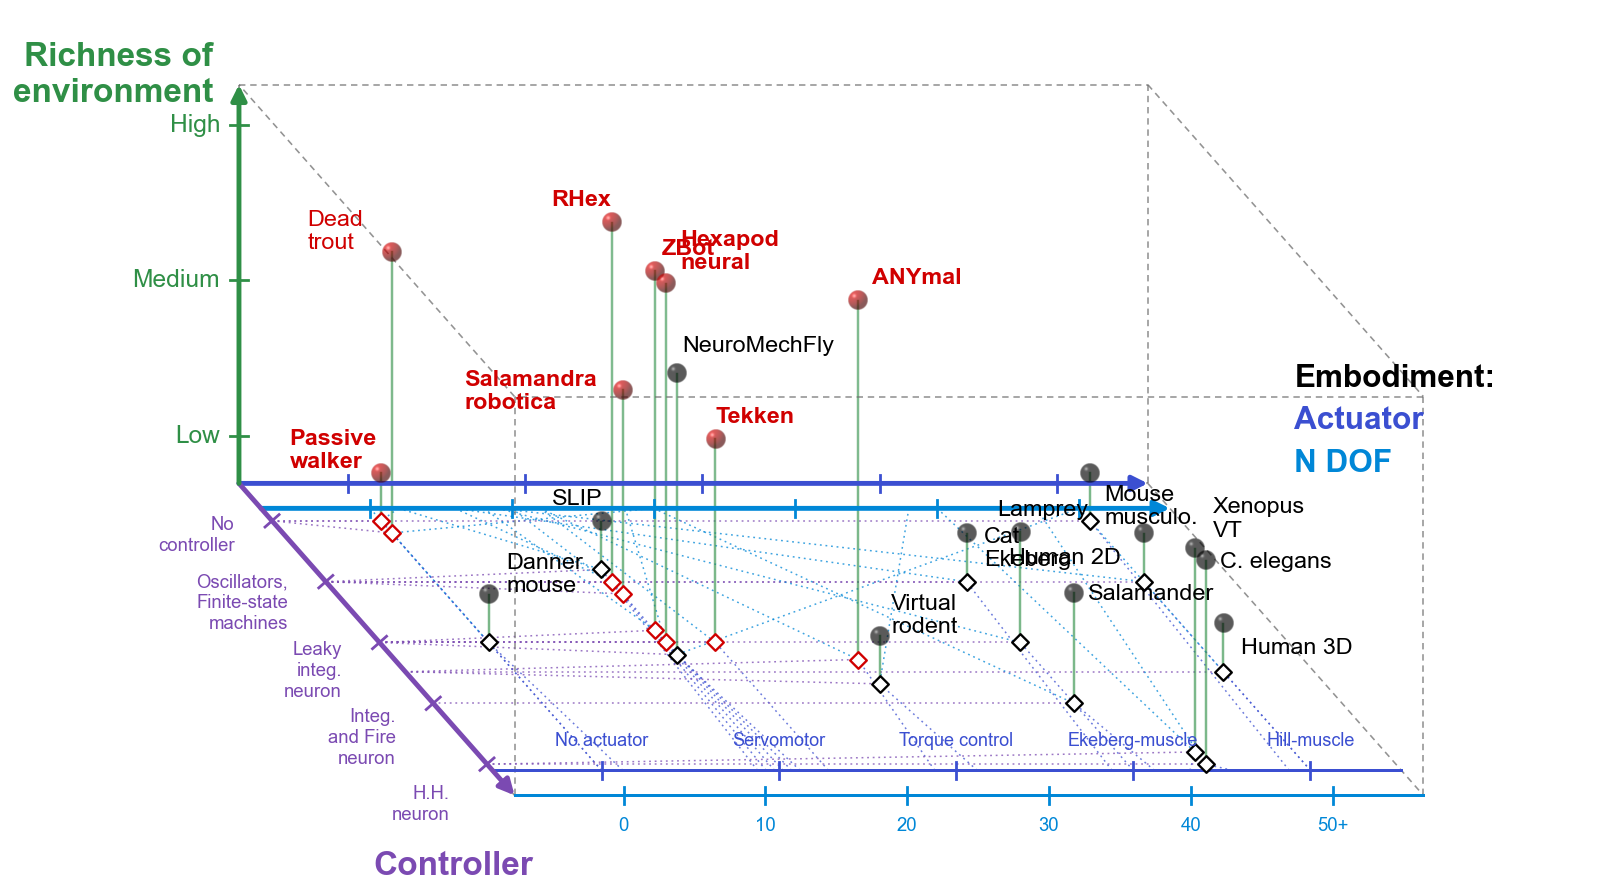
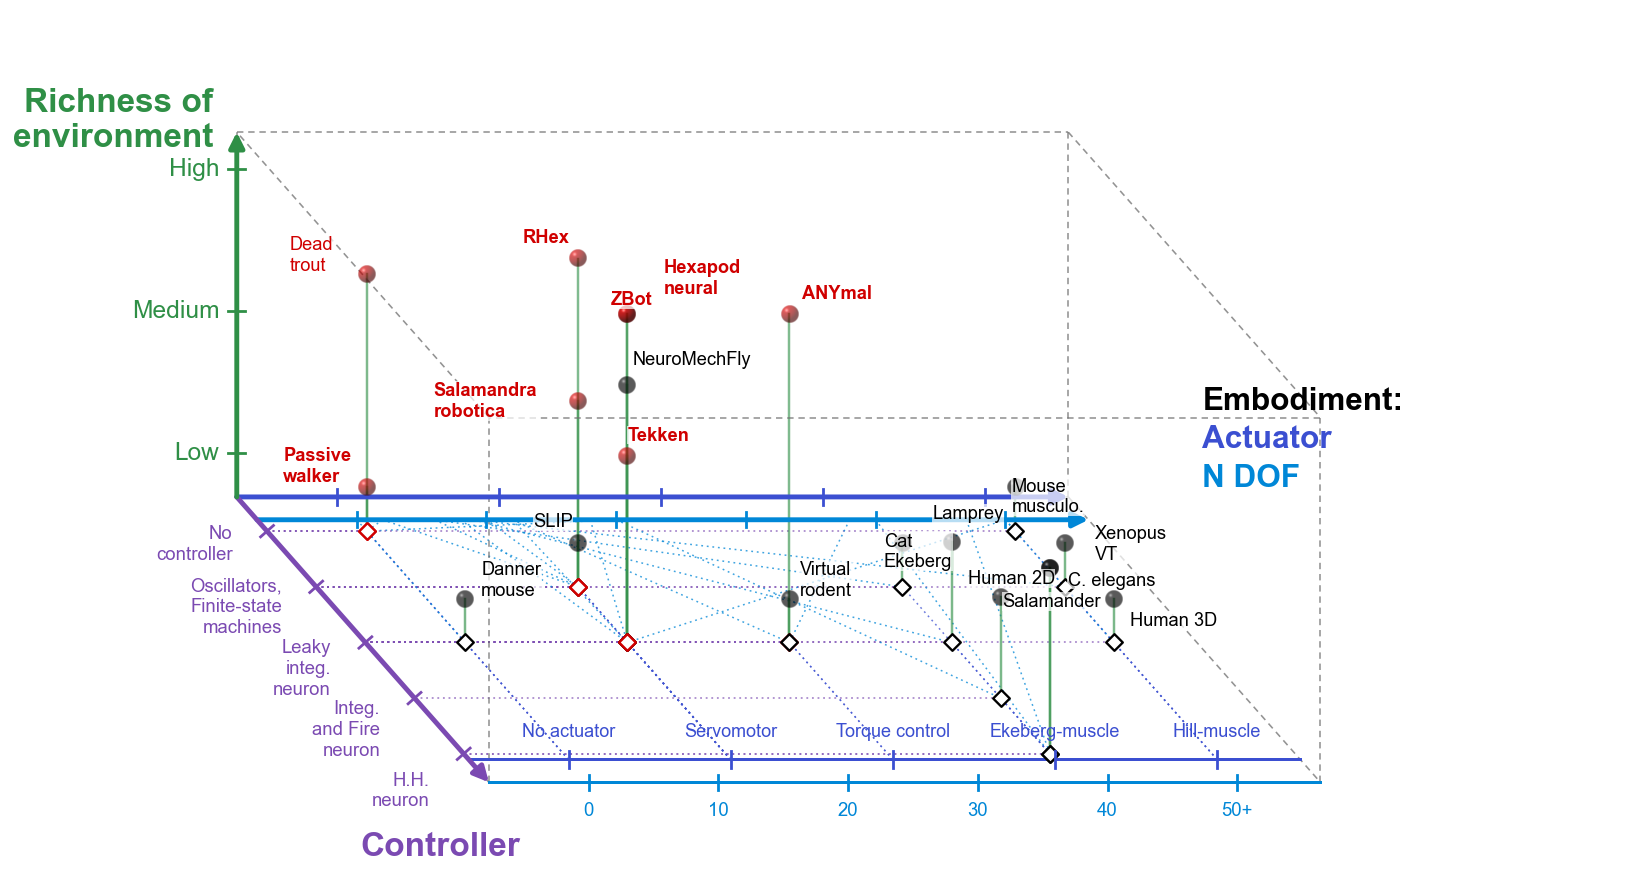
Updated script and xslx file

diff --git a/plot_figure_with_models.py b/plot_figure_with_models.py
@@ -80,8 +80,8 @@ AXIS_TICK_END   = 0.90
 
 FIGSIZE         = (12.2, 7.6)
 DPI             = 160
-X_LIMITS        = (0.0, 12.9)
-Y_LIMITS        = (-0.60, 6.6)
+X_LIMITS        = (0.0, 14.10)
+Y_LIMITS        = (-0.80, 7.10)
 
 
 def clip_01(value: float) -> float:
@@ -146,6 +146,27 @@ NDOF_TICKS = [
     (1.00, "50+"),
 ]
 
+# Categorical equivalences. These are used only to snap models to the existing
+# original ticks; no new visible ticks are added.
+CONTROLLER_LEVEL_TO_COORD = {
+    "No controller"               : 0.00,
+    "Open-loop / FSM / oscillator": 0.25,
+    "Rate / leaky / CPG neural"   : 0.50,
+    "ANN / RL / torque policy"    : 0.50,
+    "Integrate-and-fire"          : 0.75,
+    "Hodgkin-Huxley"              : 1.00,
+}
+
+ACTUATOR_LEVEL_TO_COORD = {
+    "No actuator"               : 0.00,
+    "Servomotor / position"     : 0.25,
+    "DC motor / PD"             : 0.25,
+    "Torque control"            : 0.50,
+    "Ekeberg muscle"            : 0.75,
+    "Spring-damper muscle-like" : 0.75,
+    "Hill muscle"               : 1.00,
+}
+
 
 # =============================================================================
 # Data loading
@@ -165,7 +186,13 @@ def to_float(value, default: float = 0.0) -> float:
 
 
 def load_models(path: Path = MODEL_XLSX) -> list[dict]:
-    """Load model coordinates from the Models sheet."""
+    """Load model coordinates from the Models sheet.
+
+    Controller and actuator are discrete variables. Therefore, their plotted
+    positions are derived from controller_level and actuator_level and snapped
+    to the existing original ticks. The editable coordinate columns remain in
+    the workbook for transparency, but they do not create extra ticks.
+    """
     wb = load_workbook(path, read_only=True, data_only=True)
     ws = wb["Models"]
 
@@ -180,18 +207,32 @@ def load_models(path: Path = MODEL_XLSX) -> list[dict]:
         if not to_bool(row.get("include_in_plot", "yes")):
             continue
 
+        controller_level = str(row.get("controller_level", ""))
+        actuator_level   = str(row.get("actuator_level", ""))
+
+        controller_coord = CONTROLLER_LEVEL_TO_COORD.get(
+            controller_level,
+            to_float(row.get("controller_coord")),
+        )
+        actuator_coord = ACTUATOR_LEVEL_TO_COORD.get(
+            actuator_level,
+            to_float(row.get("actuator_coord")),
+        )
+
         color = ROBOT_COLOR if row.get("plot_color") == "red" else MODEL_COLOR
         models.append(
             {
-                "label"       : str(row["plot_label"]),
-                "is_robot"    : to_bool(row["is_robot"]),
-                "color"       : color,
-                "controller"  : to_float(row["controller_coord"]),
-                "actuator"    : to_float(row["actuator_coord"]),
-                "ndof"        : to_float(row["ndof_coord"]),
-                "environment" : to_float(row["environment_coord"]),
-                "label_dx"    : to_float(row.get("label_dx"), 0.15),
-                "label_dy"    : to_float(row.get("label_dy"), 0.20),
+                "label"            : str(row["plot_label"]),
+                "controller_level" : controller_level,
+                "actuator_level"   : actuator_level,
+                "is_robot"         : to_bool(row["is_robot"]),
+                "color"            : color,
+                "controller"       : controller_coord,
+                "actuator"         : actuator_coord,
+                "ndof"             : to_float(row["ndof_coord"]),
+                "environment"      : to_float(row["environment_coord"]),
+                "label_dx"         : to_float(row.get("label_dx"), 0.15),
+                "label_dy"         : to_float(row.get("label_dy"), 0.20),
             }
         )
 
@@ -337,55 +378,106 @@ def draw_sphere(
 # Models and projections
 # =============================================================================
 
-def add_overlap_offsets(
-    entries: list[dict],
-    controller_offset: float = 0.050,
-    actuator_offset: float = 0.030,
-) -> list[dict]:
-    copied = [entry.copy() for entry in entries]
+def add_overlap_offsets(entries: list[dict]) -> list[dict]:
+    """Return entries unchanged.
 
-    coord_groups = defaultdict(list)
-    for index, entry in enumerate(copied):
-        key = (round(entry["controller"], 3), round(entry["actuator"], 3))
-        coord_groups[key].append(index)
-
-    for indices in coord_groups.values():
-        jitters = [0.0] if len(indices) == 1 else np.linspace(-controller_offset, controller_offset, len(indices))
-        for index, jitter in zip(indices, jitters):
-            copied[index]["controller_jitter"] = float(jitter)
-
-    actuator_groups = defaultdict(list)
-    for index, entry in enumerate(copied):
-        actuator_groups[round(entry["actuator"], 3)].append(index)
-
-    for indices in actuator_groups.values():
-        jitters = [0.0] if len(indices) == 1 else np.linspace(-actuator_offset, actuator_offset, len(indices))
-        for index, jitter in zip(indices, jitters):
-            copied[index]["actuator_axis_jitter"] = float(jitter)
-
-    return copied
+    Controller and actuator are discrete dimensions. Models sharing the same
+    actuator type must therefore sit on the same actuator coordinate. Label
+    overlap is handled only by moving text labels, not by jittering model data.
+    """
+    return [entry.copy() for entry in entries]
 
 
-def draw_model(ax, entry: dict) -> None:
+def data_delta_from_pixels(ax, dx: float, dy: float) -> np.ndarray:
+    """Convert a display-space shift in pixels into data coordinates."""
+    inv = ax.transData.inverted()
+    p0 = inv.transform((0, 0))
+    p1 = inv.transform((dx, dy))
+    return p1 - p0
+
+
+def relax_text_labels(
+    fig,
+    ax,
+    texts: list,
+    iterations: int = 220,
+    step_px: float = 6.0,
+) -> None:
+    """Iteratively separate overlapping model labels.
+
+    The model coordinates and projections are not moved.
+    """
+    if not texts:
+        return
+
+    for _ in range(iterations):
+        fig.canvas.draw()
+        renderer = fig.canvas.get_renderer()
+        moved = False
+
+        boxes = [text.get_window_extent(renderer=renderer).expanded(1.06, 1.12)
+                 for text in texts]
+
+        for i in range(len(texts)):
+            for j in range(i + 1, len(texts)):
+                if not boxes[i].overlaps(boxes[j]):
+                    continue
+
+                ci = boxes[i].get_points().mean(axis=0)
+                cj = boxes[j].get_points().mean(axis=0)
+                direction = ci - cj
+                norm = np.linalg.norm(direction)
+
+                if norm == 0:
+                    direction = np.array([0.0, 1.0])
+                else:
+                    direction = direction / norm
+
+                direction = direction + np.array([0.18, 0.10])
+                norm = np.linalg.norm(direction)
+                direction = direction / norm if norm else direction
+
+                delta = data_delta_from_pixels(
+                    ax,
+                    step_px * direction[0],
+                    step_px * direction[1],
+                )
+
+                xi, yi = texts[i].get_position()
+                xj, yj = texts[j].get_position()
+
+                texts[i].set_position((xi + delta[0], yi + delta[1]))
+                texts[j].set_position((xj - delta[0], yj - delta[1]))
+
+                moved = True
+
+        if not moved:
+            break
+
+
+def draw_model(ax, entry: dict):
     """Draw one model and exactly three horizontal projections."""
-    controller = axis_pos(entry["controller"] + entry.get("controller_jitter", 0.0))
+    # Controller and actuator snap exactly to original discrete tick coordinates.
+    controller = axis_pos(entry["controller"])
     actuator   = axis_pos(entry["actuator"])
+
+    # N DOF and environment remain continuous within their axes.
     ndof       = axis_pos(entry["ndof"])
     env        = axis_pos(entry["environment"])
 
     floor_point = project_point(controller, actuator, 0.0)
     real_point  = project_point(controller, actuator, env)
 
-    controller_axis_point = project_point(axis_pos(entry["controller"]), 0.0, 0.0)
+    controller_axis_point = project_point(controller, 0.0, 0.0)
 
     ndof_readout_start     = ORIGIN + CONTROLLER_VEC
     actuator_readout_start = ndof_readout_start - NDOF_OFFSET * CONTROLLER_VEC
 
-    # Apply actuator jitter only as movement along the lower Actuator axis.
-    # This prevents the endpoint from overshooting off the axis.
-    actuator_readout_coord = clip_01(entry["actuator"] + entry.get("actuator_axis_jitter", 0.0))
-    actuator_readout_point = actuator_readout_start + axis_pos(actuator_readout_coord) * EMBODIMENT_VEC
+    # Actuator projection stops exactly on the lower Actuator readout axis
+    # at the same discrete actuator tick used by the model itself.
+    actuator_readout_point = actuator_readout_start + actuator * EMBODIMENT_VEC
 
+    # N DOF projection points to the original N DOF axis and may fall between ticks.
     ndof_axis_point = NDOF_START + ndof * EMBODIMENT_VEC
 
     projection_style = {
@@ -395,7 +487,6 @@ def draw_model(ax, entry: dict) -> None:
         "zorder" : 2,
     }
 
-    # Exactly one projection per dimension.
     ax.plot(
         [controller_axis_point[0], floor_point[0]],
         [controller_axis_point[1], floor_point[1]],
@@ -437,17 +528,20 @@ def draw_model(ax, entry: dict) -> None:
 
     draw_sphere(ax, real_point[0], real_point[1], color=entry["color"])
 
-    ax.text(
+    text = ax.text(
         real_point[0] + entry["label_dx"],
         real_point[1] + entry["label_dy"],
         entry["label"],
-        fontsize   = 10.5,
+        fontsize   = 8.2,
         color      = entry["color"],
         fontweight = "bold" if entry["is_robot"] else "normal",
         ha         = "left",
         va         = "center",
+        bbox       = dict(facecolor="white", edgecolor="none", alpha=0.72, pad=0.15),
         zorder     = 13,
     )
+
+    return text
 
 
 # =============================================================================
@@ -618,14 +712,17 @@ def make_figure(models: list[dict] | None = None) -> plt.Figure:
     ax.set_ylim(*Y_LIMITS)
     ax.axis("off")
 
+    label_texts = []
     for entry in add_overlap_offsets(models):
-        draw_model(ax, entry)
+        label_texts.append(draw_model(ax, entry))
 
     draw_box_faces(ax)
     draw_box_edges(ax)
     draw_axes(ax)
     draw_axis_titles(ax)
     draw_axis_ticks_and_labels(ax)
+
+    relax_text_labels(fig, ax, label_texts)
 
     return fig
 